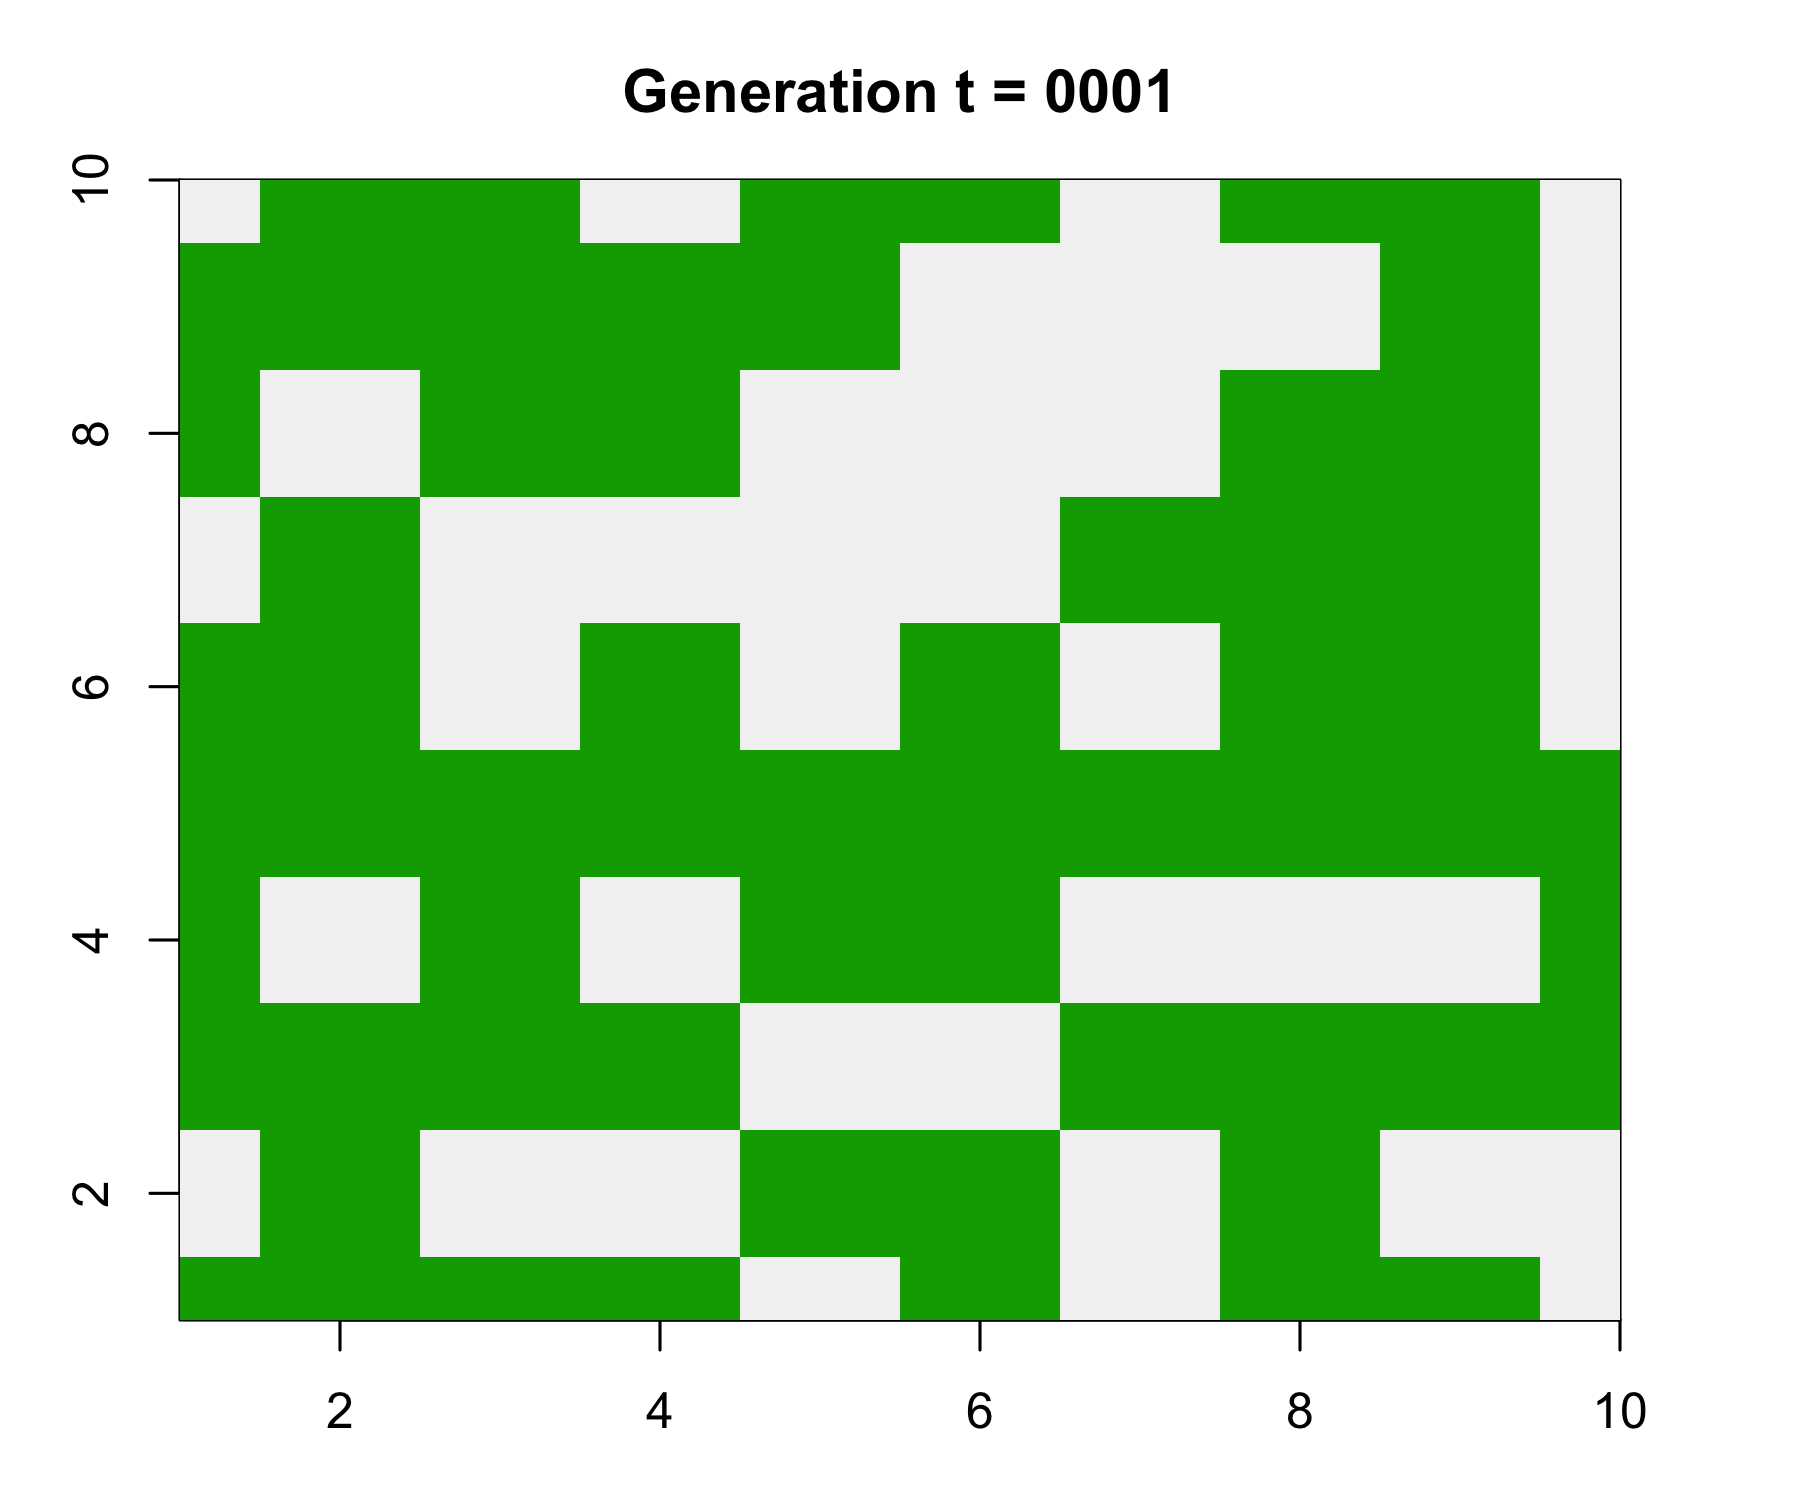
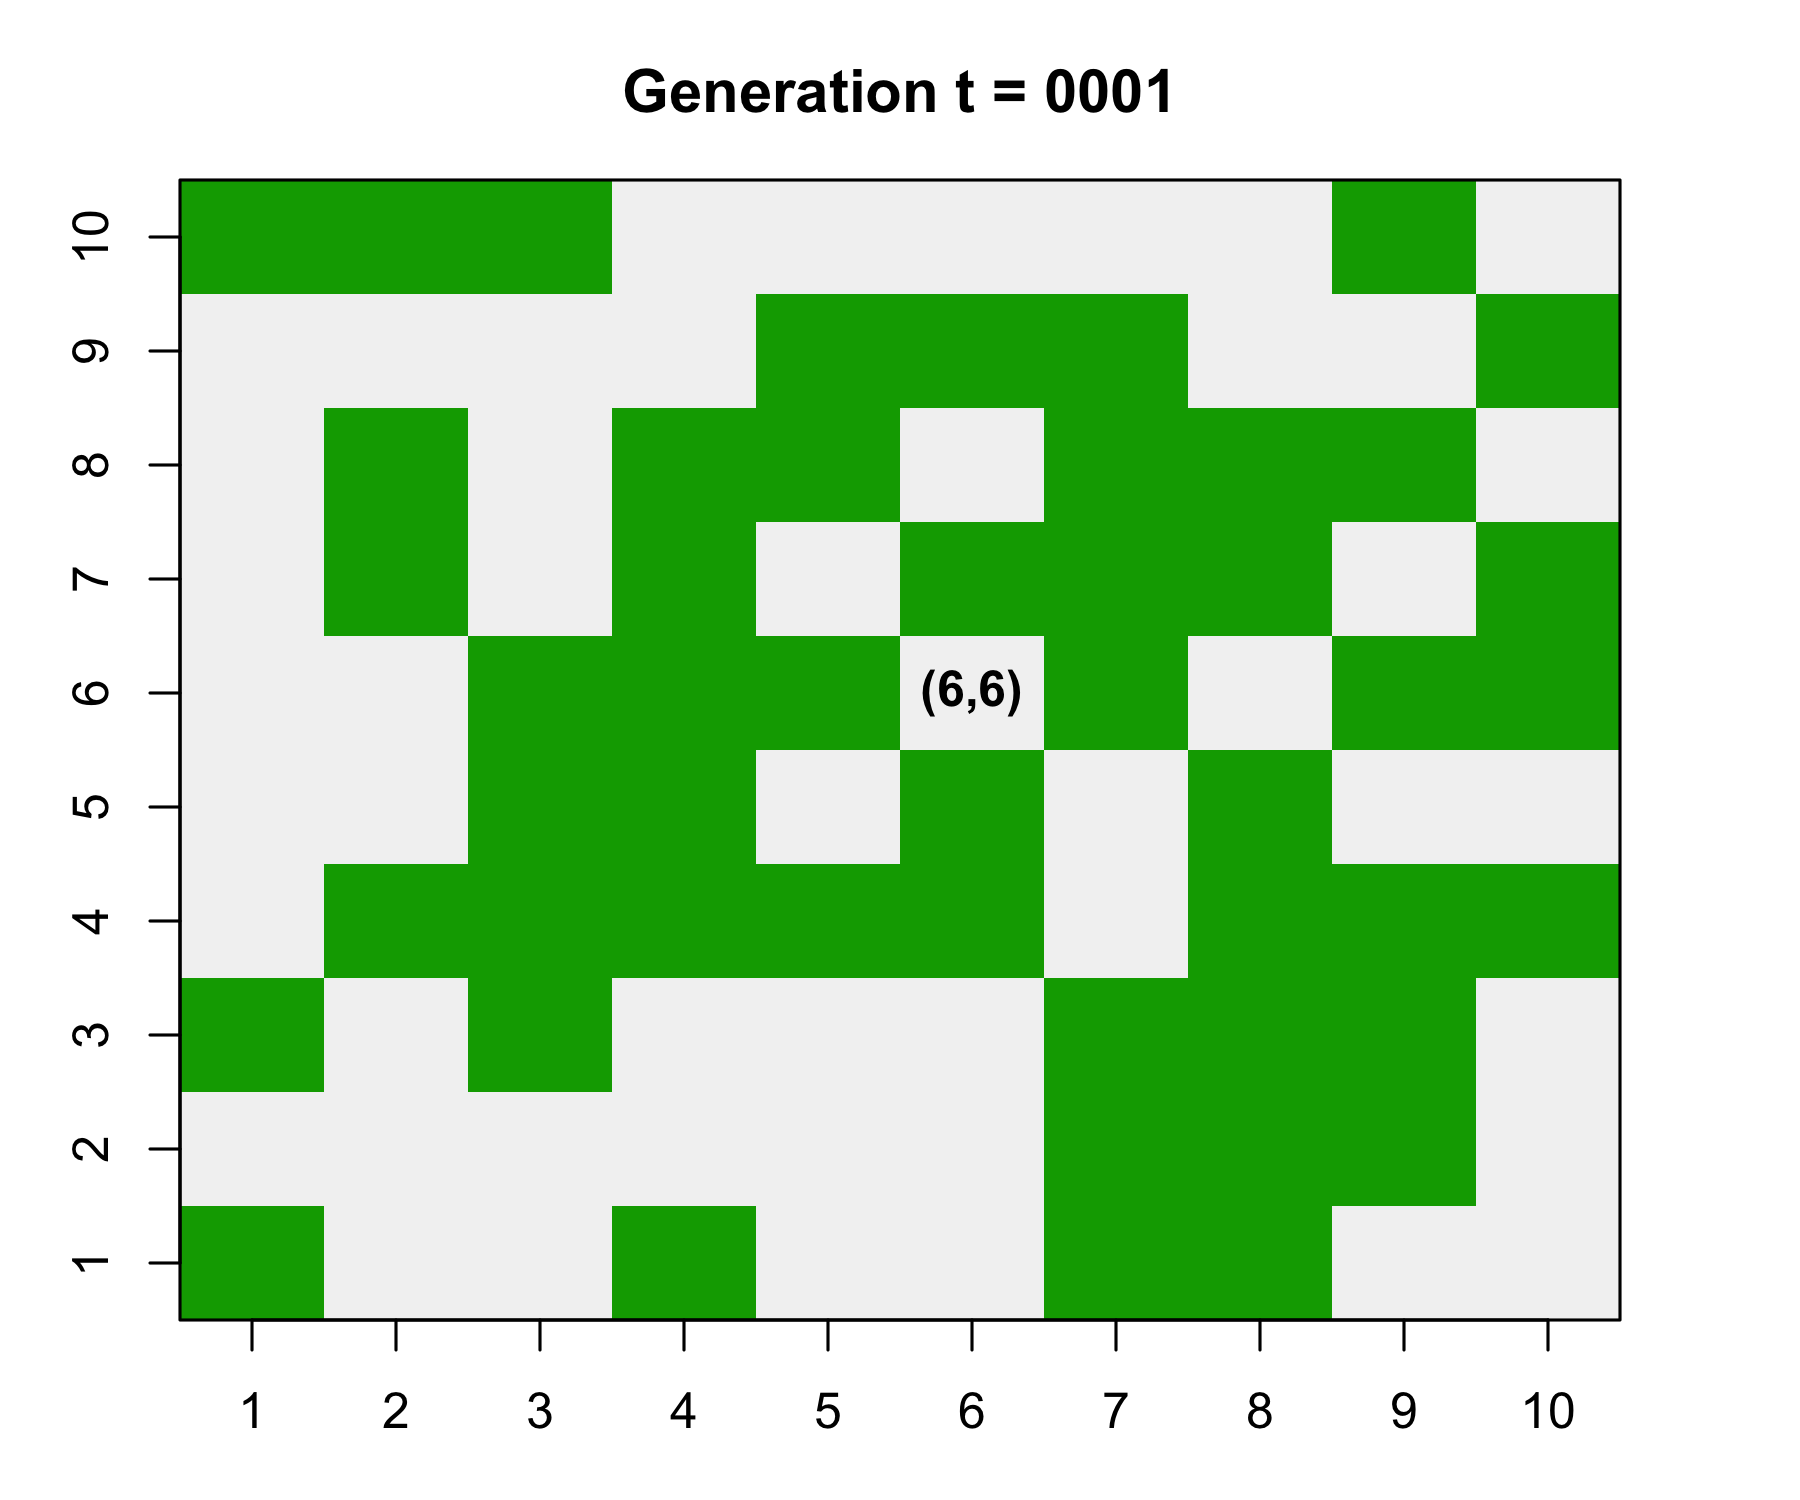
adding making GIF / showing point in the canopy model

diff --git a/makeGIF/makeGIF.py b/makeGIF/makeGIF.py
@@ -1,0 +1,10 @@
+from PIL import Image
+import glob
+
+dirname = '../lattice/result'
+filename = dirname + '/*.png'
+files = sorted(glob.glob(filename))
+images = list(map(lambda file: Image.open(file), files))
+
+gifname = dirname + '.gif'
+images[0].save(gifname, save_all=True, append_images=images[1:], duration=300, loop=0)
